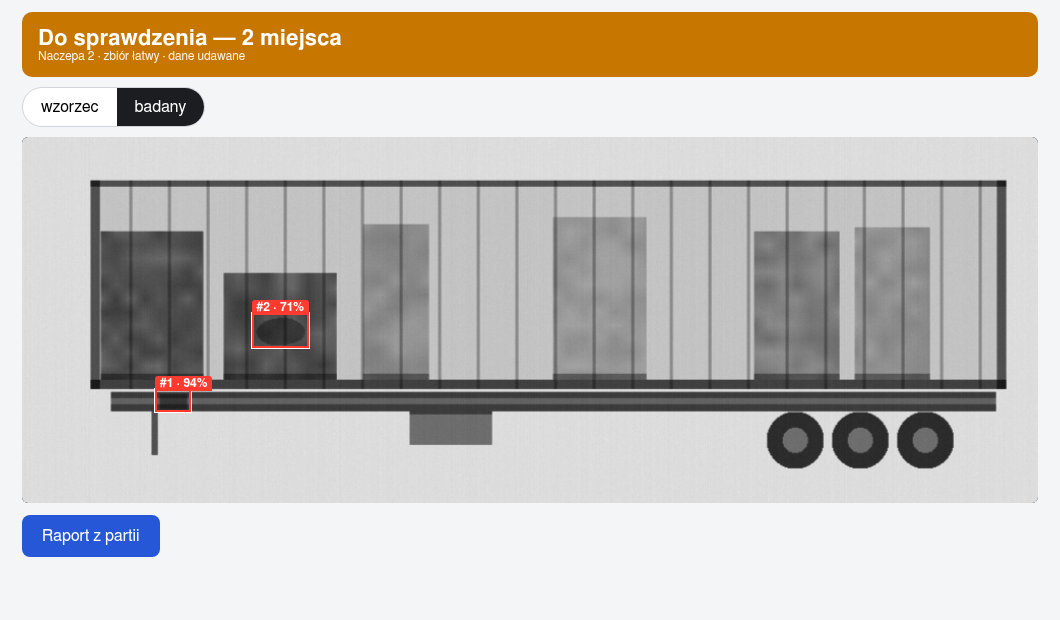
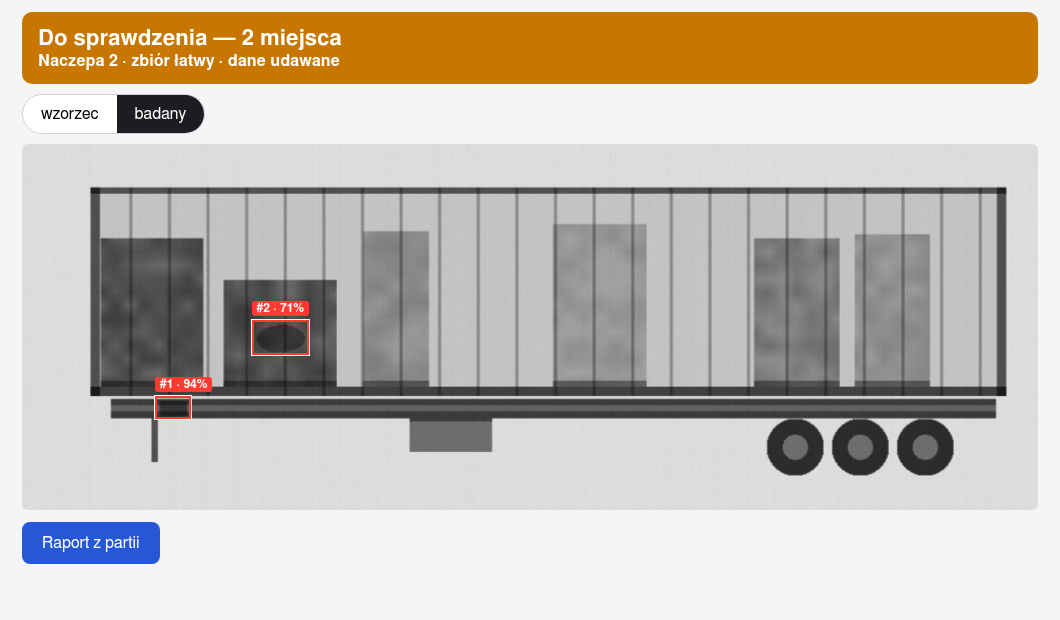
makieta R2: karty z 2 liczbami, tabela 62, słabość mały/konstrukcja, lista naczep, bez listy miejsc

diff --git a/makieta/index.html b/makieta/index.html
@@ -13,16 +13,16 @@
   .dane-info { font-size:12px; color:var(--szary); margin:0 0 8px; }
   /* Ekran A: dokładnie 4 elementy */
   .ocena { padding:14px 16px; border-radius:10px; color:#fff; font-size:22px; font-weight:700; margin-bottom:10px; }
-  .ocena small { display:block; font-size:12px; font-weight:400; opacity:.9; }
+  .ocena small { display:block; font-size:16px; font-weight:600; margin-top:2px; }
   .ocena.czysta { background:var(--zielony); }
   .ocena.sprawdz { background:var(--bursztyn); }
   .przelacznik { display:inline-flex; border:1px solid var(--ramka); border-radius:999px; overflow:hidden; margin-bottom:10px; background:#fff; }
   .przelacznik button { border:0; background:none; padding:10px 18px; font-size:16px; cursor:pointer; }
   .przelacznik button.wl { background:var(--tekst); color:#fff; }
-  .obraz { position:relative; width:100%; aspect-ratio:1000/360; background:#000; border-radius:6px; overflow:hidden; }
+  .obraz { position:relative; padding:0; width:100%; aspect-ratio:1000/360; background:#000; border-radius:6px; overflow:hidden; }
   .obraz img { width:100%; height:100%; display:block; image-rendering:auto; }
   .obraz .bbox { position:absolute; border:2px solid #ff3b30; box-shadow:0 0 0 1px #fff; }
-  .obraz .bbox span { position:absolute; left:-2px; bottom:100%; background:#ff3b30; color:#fff; font-size:12px; font-weight:700; padding:1px 5px; white-space:nowrap; border-radius:3px 3px 0 0; }
+  .obraz .bbox span { position:absolute; left:-2px; bottom:calc(100% + 6px); background:#ff3b30; color:#fff; font-size:12px; font-weight:700; padding:1px 5px; white-space:nowrap; border-radius:3px; }
   .przycisk { display:inline-block; margin-top:12px; padding:12px 20px; font-size:16px; border-radius:8px; border:0; background:#2557d6; color:#fff; cursor:pointer; text-decoration:none; }
   .przycisk.drugi { background:#fff; color:var(--tekst); border:1px solid var(--ramka); }
   /* Ekran B */
@@ -31,7 +31,14 @@
   .zbiory { display:grid; grid-template-columns:repeat(auto-fit,minmax(290px,1fr)); gap:10px; }
   .karta { background:#fff; border:1px solid var(--ramka); border-radius:10px; padding:12px; }
   .karta h3 { margin:0 0 8px; font-size:16px; }
-  .liczby { display:grid; grid-template-columns:1fr auto; gap:3px 10px; font-size:14px; }
+  .liczby { display:grid; grid-template-columns:1fr auto; gap:2px 10px; font-size:12px; color:#374151; }
+  .glowne { display:grid; grid-template-columns:1fr 1fr; gap:8px; margin-bottom:10px; }
+  .glowne div { border-radius:8px; padding:8px; background:#f3f4f6; }
+  .glowne strong { display:block; font-size:28px; line-height:1.1; font-variant-numeric:tabular-nums; }
+  .glowne span { font-size:13px; }
+  .glowne .zle { background:#fde8e6; } .glowne .dobrze { background:#e5f5ec; color:#14532d; }
+  td.zle { background:#fde8e6; font-weight:700; }
+  tr.bez td { color:var(--szary); }
   .liczby b { text-align:right; font-variant-numeric:tabular-nums; }
   .podpis { font-size:11px; color:var(--szary); }
   .zle { color:#b42318; }
@@ -62,19 +69,16 @@
   <h1>Raport z partii</h1>
   <p class="dane-info">Makieta — dane udawane. Naczepy z obrazami: <a href="#a/1">naczepa 1</a> (#a/1), <a href="#a/2">naczepa 2</a> (#a/2).</p>
   <div class="zbiory" id="b-zbiory"></div>
-  <div class="uwaga">Słabość metody bazowej pokazana jawnie: na zbiorze trudnym i z pustym wzorcem alarm pada na każdym czystym obrazie (FP 100%). Cel: FP ≤ 10% i FN ≤ 10%.</div>
+  <div class="uwaga">Słabość metody bazowej pokazana jawnie: na zbiorze trudnym i z pustym wzorcem alarm pada na każdym czystym obrazie (FP 100%), a małe dodatki w konstrukcji są znajdowane w 56% (cel ≥ 80%). Cel: FP ≤ 10% i FN ≤ 10%.</div>
 
   <h2>Trafienia dodatków: miejsce × rozmiar</h2>
   <div class="przewijana"><table id="b-tabela"></table></div>
-  <p class="podpis">przykład, zbiór trudny + pusty wzorzec łącznie (rozmiar „mały” = pole &lt; 0,1% obrazu, założenie robocze)</p>
+  <p class="podpis">przykład, zbiór trudny + pusty wzorzec łącznie, 48/62 dodatków jak na kartach (rozmiar „mały” = pole &lt; 0,1% obrazu, założenie robocze)</p>
 
   <h2>Naczepy w partii</h2>
   <div class="przewijana"><table id="b-naczepy"></table></div>
-  <p class="podpis">przykład, zbiór łatwy — kliknij naczepę 1 lub 2, by otworzyć ekran naczepy</p>
+  <p class="podpis">podgląd 5 z 40 naczep, zbiór łatwy (przykład) — naczepy 1 i 2 otwierają ekran naczepy</p>
 
-  <h2 id="b-miejsca-tytul">Miejsca: naczepa 2</h2>
-  <div class="przewijana"><table id="b-miejsca"></table></div>
-  <p class="podpis">przykład, zbiór łatwy · położenie w pikselach obrazu 1000×360 (x, y lewego górnego rogu)</p>
 
   <button class="przycisk" id="b-zapisz">Zapisz do pliku</button>
   <a class="przycisk drugi" id="b-wroc" href="#a/2">Wróć do naczepy</a>
@@ -98,8 +102,8 @@ const ZBIORY = [
 ];
 const PROG = 50; // próg odcinania pewności, % (przykład)
 const TABELA = { // przykład: trafione / wszystkie
-  konstrukcja: { maly: [9,14], duzy: [10,12] },
-  ladunek: { maly: [11,13], duzy: [18,19] },
+  konstrukcja: { maly: [9,16], duzy: [12,14] },
+  ladunek: { maly: [11,13], duzy: [16,19] }, // suma: 48/62 = trudny 25/32 + pusty wzorzec 23/30
 };
 const LISTA = [
   { n: 1, ocena: "czysta", miejsc: 0 }, { n: 2, ocena: "sprawdz", miejsc: 2 },
@@ -131,31 +135,30 @@ document.querySelectorAll(".przelacznik button").forEach(b => b.onclick = () => 
 
 function rysujB() {
   document.getElementById("b-zbiory").innerHTML = ZBIORY.map(z => `
-    <div class="karta"><h3>Zbiór ${z.nazwa}</h3><div class="liczby">
-      <span>obrazy bez alarmu</span><b>${z.bez}</b>
+    <div class="karta"><h3>Zbiór ${z.nazwa}</h3>
+      <div class="glowne">
+        <div class="${(z.fp[1]-z.fp[0])/z.fp[1]>=0.9?"dobrze":"zle"}"><strong>${z.fp[1]-z.fp[0]}/${z.fp[1]}</strong><span>czyste bez alarmu</span></div>
+        <div class="${z.traf[0]/z.traf[1]>=0.9?"dobrze":"zle"}"><strong>${z.traf[0]}/${z.traf[1]}</strong><span>dodatki znalezione</span></div>
+      </div><div class="liczby">
+      <span>obrazy bez alarmu (wszystkie)</span><b>${z.bez}</b>
       <span>obrazy z alarmem</span><b>${z.z}</b>
       <span>liczba ramek</span><b>${z.ramek}</b>
       <span>próg odcinania</span><b>${PROG}%</b>
       <span>czas / obraz</span><b>${z.czas.toFixed(2).replace(".",",")} s</b>
       <span>FP (czyste z alarmem)</span><b class="${z.fp[0]/z.fp[1]>0.1?"zle":""}">${proc(z.fp)}</b>
       <span>FN (z dodatkiem bez trafienia)</span><b class="${z.fn[0]/z.fn[1]>0.1?"zle":""}">${proc(z.fn)}</b>
-      <span>dodatki trafione</span><b>${z.traf[0]}/${z.traf[1]}</b>
     </div><p class="podpis">zbiór ${z.nazwa}, test (ziarno 1), wartość bazowa — docs/wynik_bazowy.md; „próg” i „ramek” — przykład</p></div>`).join("");
-  const kom = (m,r) => { const [a,b] = TABELA[m][r]; return `<td>${a}/${b} (${Math.round(100*a/b)}%)</td>`; };
+  const kom = (m,r) => { const [a,b] = TABELA[m][r], p = Math.round(100*a/b), cel = m==="konstrukcja" && r==="maly";
+    return `<td class="${cel && p<80 ? "zle" : ""}">${a}/${b} (${p}%)${cel ? " · cel ≥ 80%" : ""}</td>`; };
   document.getElementById("b-tabela").innerHTML = `<tr><th>miejsce \\ rozmiar</th><th>mały</th><th>duży</th></tr>
     <tr><th>konstrukcja</th>${kom("konstrukcja","maly")}${kom("konstrukcja","duzy")}</tr>
     <tr><th>ładunek</th>${kom("ladunek","maly")}${kom("ladunek","duzy")}</tr>`;
   document.getElementById("b-naczepy").innerHTML = `<tr><th>naczepa</th><th>ocena</th><th>miejsc</th></tr>` + LISTA.map(l => `
-    <tr class="klik ${l.n===wybrana?"wybrana":""}" data-n="${l.n}"><td>Naczepa ${l.n}</td>
+    <tr class="${NACZEPY[l.n]?"klik":"bez"} ${l.n===wybrana?"wybrana":""}" data-n="${l.n}"><td>Naczepa ${l.n}</td>
     <td><span class="kropka" style="background:${l.ocena==="czysta"?"var(--zielony)":"var(--bursztyn)"}"></span>${l.ocena==="czysta"?"Czysta":"Do sprawdzenia"}</td><td>${l.miejsc}</td></tr>`).join("");
   document.querySelectorAll("#b-naczepy tr.klik").forEach(tr => tr.onclick = () => {
-    const n = +tr.dataset.n; if (NACZEPY[n]) location.hash = "#a/" + n; else alert("W makiecie obrazy są tylko dla naczep 1 i 2.");
+    const n = +tr.dataset.n; if (NACZEPY[n]) location.hash = "#a/" + n;
   });
-  const nc = NACZEPY[wybrana];
-  document.getElementById("b-miejsca-tytul").textContent = `Miejsca: ${nc.nazwa}`;
-  document.getElementById("b-miejsca").innerHTML = `<tr><th>#</th><th>położenie (x, y)</th><th>strefa</th><th>pewność</th></tr>` +
-    (nc.ramki.length ? nc.ramki.map(r => `<tr><td>#${r.nr}</td><td>${r.bbox[0]}, ${r.bbox[1]}</td><td>${r.miejsce}</td><td>${r.pewnosc}%</td></tr>`).join("")
-                     : `<tr><td colspan="4">brak miejsc — naczepa czysta</td></tr>`);
   document.getElementById("b-wroc").href = "#a/" + wybrana;
 }
 
